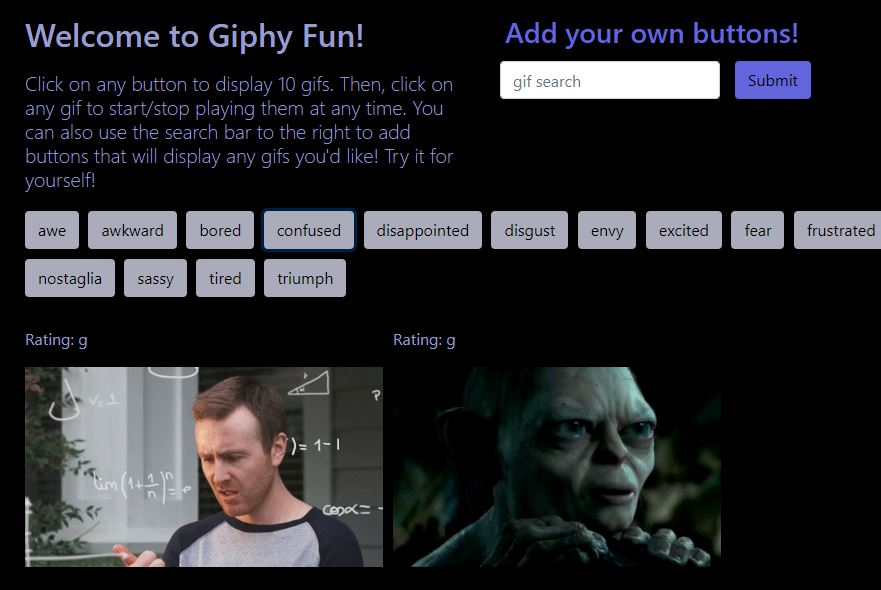
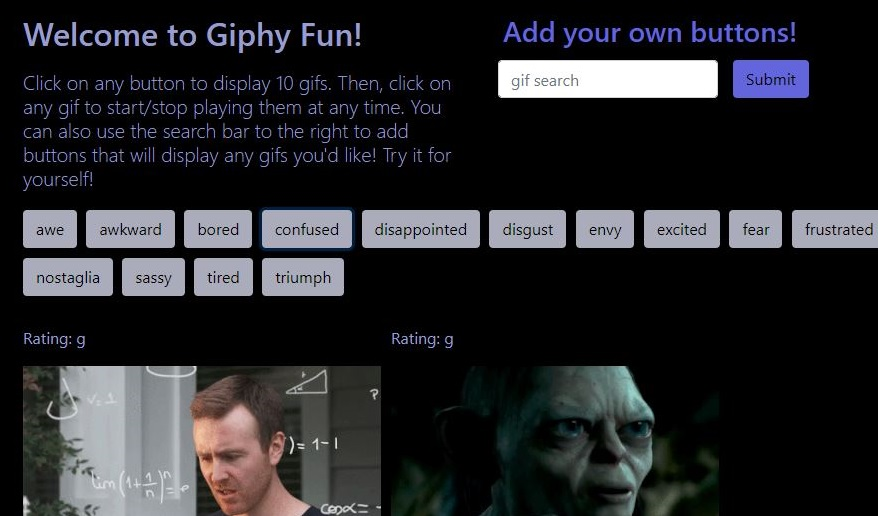
changing giphy image

diff --git a/portfolio.html b/portfolio.html
@@ -77,7 +77,7 @@
                             
                             
                                 <div class="card border-0 mb-3">
-                                    <img class="card-img-top" src="images/giphy_hw_2.JPG" alt="Giphy Fun">
+                                    <img class="card-img-top" src="images/giphy_hw.JPG" alt="Giphy Fun">
                                     <h4 class="card-title"><a class="cardLinks" href="https://amfirebaugh.github.io/giphy-hw/">Giphy Fun</a></h4>
                                 </div>
                             </div>
